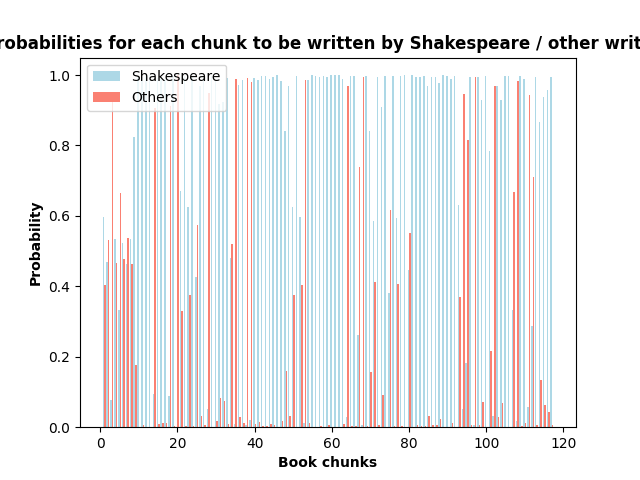
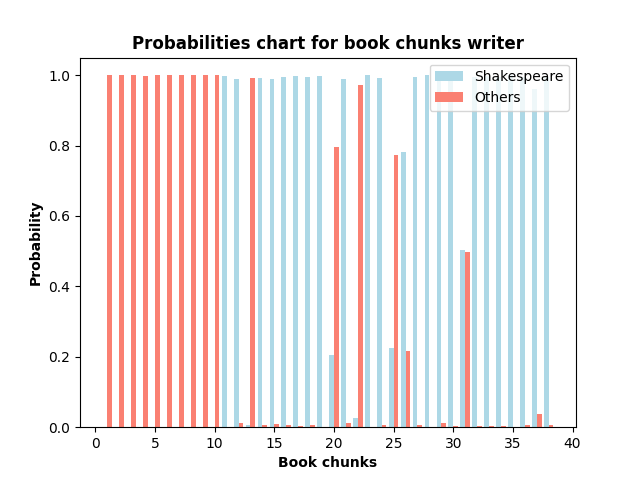
almost finish

diff --git a/gui_design/train_news_model_window.py b/gui_design/train_news_model_window.py
@@ -320,23 +320,6 @@ class Ui_TrainNewsModelWindow(object):
 "                                                        ")
         self.inputTextColumnName1221.setObjectName("inputTextColumnName1221")
         self.horizontalLayout122.addWidget(self.inputTextColumnName1221)
-        self.questionBtn1222 = QtWidgets.QToolButton(self.verticalGroupBox12)
-        self.questionBtn1222.setMinimumSize(QtCore.QSize(0, 0))
-        self.questionBtn1222.setMouseTracking(False)
-        self.questionBtn1222.setAutoFillBackground(False)
-        self.questionBtn1222.setStyleSheet("background-color: rgb(0, 0, 127);\n"
-"                                                            background-color: rgb(0, 0, 50);\n"
-"                                                            border-width: 1px;\n"
-"                                                            border-radius: 14px;\n"
-"                                                            border-color: rgb(255, 255, 255);\n"
-"                                                            border-style: solid;\n"
-"                                                        ")
-        self.questionBtn1222.setText("")
-        icon2 = QtGui.QIcon()
-        icon2.addPixmap(QtGui.QPixmap("../RESOURCES/question_icon2.png"), QtGui.QIcon.Normal, QtGui.QIcon.Off)
-        self.questionBtn1222.setIcon(icon2)
-        self.questionBtn1222.setObjectName("questionBtn1222")
-        self.horizontalLayout122.addWidget(self.questionBtn1222)
         self.verticalLayout_5.addLayout(self.horizontalLayout122)
         self.label127 = QtWidgets.QLabel(self.verticalGroupBox12)
         self.label127.setStyleSheet("border-width: 0px;\n"
@@ -356,21 +339,6 @@ class Ui_TrainNewsModelWindow(object):
 "                                                        ")
         self.inputLabelColumnName1231.setObjectName("inputLabelColumnName1231")
         self.horizontalLayout123.addWidget(self.inputLabelColumnName1231)
-        self.questionBtn1232 = QtWidgets.QToolButton(self.verticalGroupBox12)
-        self.questionBtn1232.setMinimumSize(QtCore.QSize(0, 0))
-        self.questionBtn1232.setMouseTracking(False)
-        self.questionBtn1232.setAutoFillBackground(False)
-        self.questionBtn1232.setStyleSheet("background-color: rgb(0, 0, 127);\n"
-"                                                            background-color: rgb(0, 0, 50);\n"
-"                                                            border-width: 1px;\n"
-"                                                            border-radius: 14px;\n"
-"                                                            border-color: rgb(255, 255, 255);\n"
-"                                                            border-style: solid;\n"
-"                                                        ")
-        self.questionBtn1232.setText("")
-        self.questionBtn1232.setIcon(icon2)
-        self.questionBtn1232.setObjectName("questionBtn1232")
-        self.horizontalLayout123.addWidget(self.questionBtn1232)
         self.verticalLayout_5.addLayout(self.horizontalLayout123)
         self.horizontalLayout124 = QtWidgets.QHBoxLayout()
         self.horizontalLayout124.setContentsMargins(-1, 0, 40, 0)

diff --git a/gui_design/main_window.py b/gui_design/main_window.py
@@ -96,31 +96,6 @@ class Ui_MainWindow(object):
         self.fakeNewsBtn.setDefault(False)
         self.fakeNewsBtn.setFlat(False)
         self.fakeNewsBtn.setObjectName("fakeNewsBtn")
-        self.helpBtn = QtWidgets.QPushButton(self.groupBox)
-        self.helpBtn.setEnabled(True)
-        self.helpBtn.setGeometry(QtCore.QRect(30, 479, 61, 61))
-        font = QtGui.QFont()
-        font.setFamily("Sitka Small")
-        font.setPointSize(18)
-        font.setBold(False)
-        font.setItalic(False)
-        font.setWeight(9)
-        self.helpBtn.setFont(font)
-        self.helpBtn.setAcceptDrops(False)
-        self.helpBtn.setAutoFillBackground(False)
-        self.helpBtn.setStyleSheet("background-color: rgb(100, 104, 108);\n"
-"background-color: rgb(133, 138, 144);\n"
-"font: 75 18pt \"Sitka Small\";\n"
-"color: rgb(0, 0, 0);\n"
-"border-width: 3px;\n"
-"border-radius: 30px;\n"
-"border-color: rgb(0, 0, 0);\n"
-"border-style: solid;")
-        self.helpBtn.setCheckable(False)
-        self.helpBtn.setAutoDefault(False)
-        self.helpBtn.setDefault(False)
-        self.helpBtn.setFlat(False)
-        self.helpBtn.setObjectName("helpBtn")
         self.trainBtn = QtWidgets.QPushButton(self.groupBox)
         self.trainBtn.setEnabled(True)
         self.trainBtn.setGeometry(QtCore.QRect(250, 400, 280, 70))
@@ -156,7 +131,6 @@ class Ui_MainWindow(object):
         self.groupBox.setTitle(_translate("MainWindow", "Fake Texts Detector"))
         self.plagiarismBtn.setText(_translate("MainWindow", "Plagiarism"))
         self.fakeNewsBtn.setText(_translate("MainWindow", "Fake News"))
-        self.helpBtn.setText(_translate("MainWindow", "?"))
         self.trainBtn.setText(_translate("MainWindow", "Train Model"))
 
 

diff --git a/model/plagiarism_detection.py b/model/plagiarism_detection.py
@@ -23,7 +23,7 @@ class PlagiarismDetection(Detection):
         # Creating color parameters
         colors = ("limegreen", "lightcoral")
         # Wedge properties
-        wp = {'linewidth': 1, 'edgecolor': "black"}
+        wp = {'linewidth': 0.5, 'edgecolor': "grey"}
 
         # Creating autocpt arguments
         def func(pct):
@@ -47,7 +47,7 @@ class PlagiarismDetection(Detection):
                   loc="upper right",
                   bbox_to_anchor=(0.1, 1, 0, 0))
         plt.setp(autotexts, size=10, weight="bold")
-        ax.set_title("Pie chart of book author classification:", size=10)
+        ax.set_title("Pie chart of book author classification:", size=10,weight="bold")
         plt.savefig("../" + self.plot_path2)
 
     def get_distribution(self):
@@ -65,7 +65,7 @@ class PlagiarismDetection(Detection):
         plt.bar(X_axis + 0.2, self.probabilities[:, 1], 0.4, label='Others', color="salmon")
         plt.xlabel("Book chunks", weight="bold")
         plt.ylabel("Probability", weight="bold")
-        plt.title("Probabilities for each chunk to be written by " + self.author_name + " / other writers",
+        plt.title("Probabilities chart for book chunks writer",
                   weight="bold")
         plt.legend()
         plt.savefig("../" + self.plot_path1)

diff --git a/gui_design/train_results_window.py b/gui_design/train_results_window.py
@@ -147,6 +147,7 @@ class Ui_TrainResultsWindow(object):
 "border-style: solid;\n"
 "background-color: rgb(188, 188, 188);\n"
 "color: rgb(0, 0, 0);\n"
+"font: 8pt \"MS Shell Dlg 2\";\n"
 "                                                \n"
 "\n"
 "")
@@ -235,6 +236,11 @@ class Ui_TrainResultsWindow(object):
         self.groupBox.setTitle(_translate("TrainResultsWindow", "Train Results"))
         self.backBtn.setText(_translate("TrainResultsWindow", "Back"))
         self.verticalGroupBox1.setTitle(_translate("TrainResultsWindow", "Train results:"))
+        self.resultTextEdit.setPlainText(_translate("TrainResultsWindow", "\"Number of true predicts: \"\n"
+" \"Number of false predicts: \" \n"
+" \"Total test set accuracy is \" \n"
+"\"Train accuracy is\n"
+"\"Validation accuracy is:"))
         self.verticalGroupBox2.setTitle(_translate("TrainResultsWindow", "Accuracy graph:"))
         self.verticalGroupBox3.setTitle(_translate("TrainResultsWindow", "Loss graph:"))
         self.saveBtn.setText(_translate("TrainResultsWindow", "Save Model"))

diff --git a/gui_design/detection_results_window.py b/gui_design/detection_results_window.py
@@ -166,7 +166,7 @@ class Ui_DetectionResultsWindow(object):
 "")
         self.verticalGroupBox2.setObjectName("verticalGroupBox2")
         self.verticalLayout_6 = QtWidgets.QVBoxLayout(self.verticalGroupBox2)
-        self.verticalLayout_6.setContentsMargins(6, 30, 6, 6)
+        self.verticalLayout_6.setContentsMargins(6, 40, 6, 6)
         self.verticalLayout_6.setSpacing(2)
         self.verticalLayout_6.setObjectName("verticalLayout_6")
         self.plotLabel1 = QtWidgets.QLabel(self.verticalGroupBox2)
@@ -187,7 +187,7 @@ class Ui_DetectionResultsWindow(object):
 "")
         self.verticalGroupBox3.setObjectName("verticalGroupBox3")
         self.verticalLayout_7 = QtWidgets.QVBoxLayout(self.verticalGroupBox3)
-        self.verticalLayout_7.setContentsMargins(6, 30, 6, 6)
+        self.verticalLayout_7.setContentsMargins(6, 40, 6, 6)
         self.verticalLayout_7.setSpacing(2)
         self.verticalLayout_7.setObjectName("verticalLayout_7")
         self.plotLabel2 = QtWidgets.QLabel(self.verticalGroupBox3)

diff --git a/gui_controllers/trainPlagModelWinController.py b/gui_controllers/trainPlagModelWinController.py
@@ -21,10 +21,7 @@ class TrainPlagModelWinController(TrainModelWinController):
 
     def train_pressed(self):
         self.clear_feedback()
-        # todo: open training process window (need to create gui_design,py,controller)
-        # todo***: results=TRAIN MODEL (author name, path)
-        # todo***: results window and load the results from training
-        # todo***:option to train again, or save the model
+
 
         folder_path_widget = self.ui.inputPath1131
         author_name_widget = self.ui.inputAuthorName111

diff --git a/model/plagiarism_task.py b/model/plagiarism_task.py
@@ -10,7 +10,7 @@ class PlagiarismTask(Task):
 
         #   read books
         author_books = self.read_books_of_specific_author(books_dir_path=dir_path)
-        different_books = self.read_books_of_various_authors(books_dir_path="../DATABASE/books_for_train2",
+        different_books = self.read_books_of_various_authors(books_dir_path="../DATABASE/books_for_train1",
                                                              name_to_ignore=author_name)
 
         #   preprocessing
